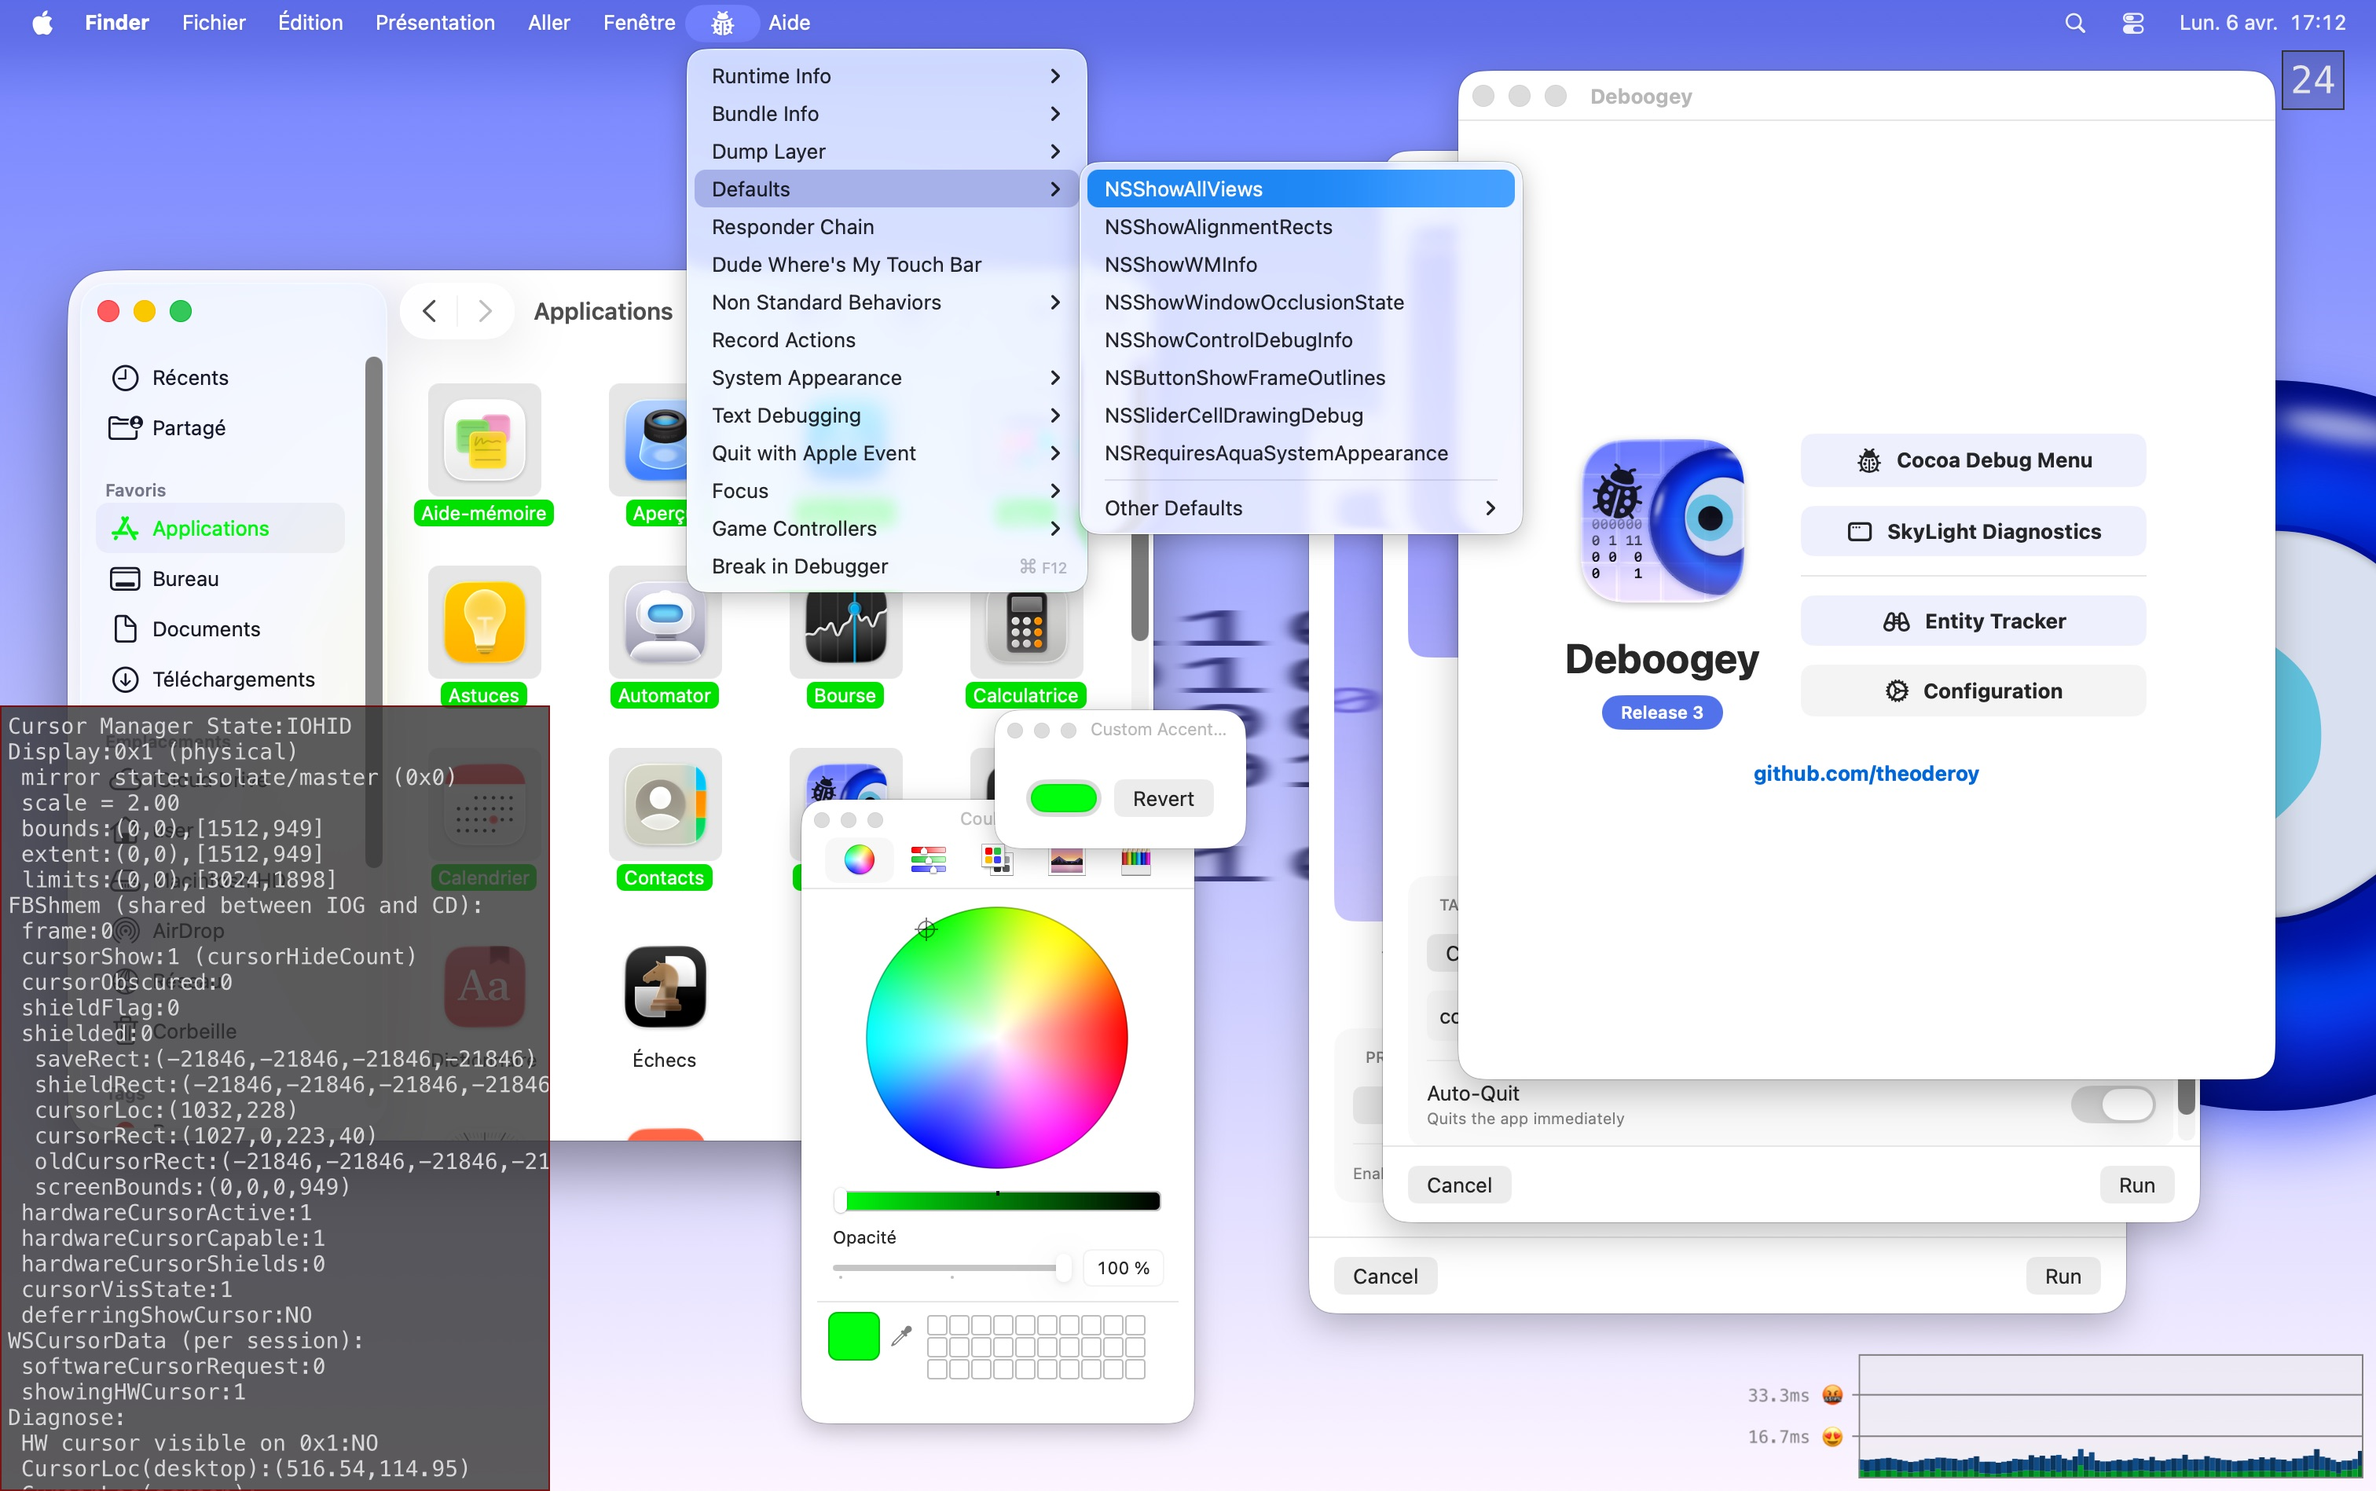
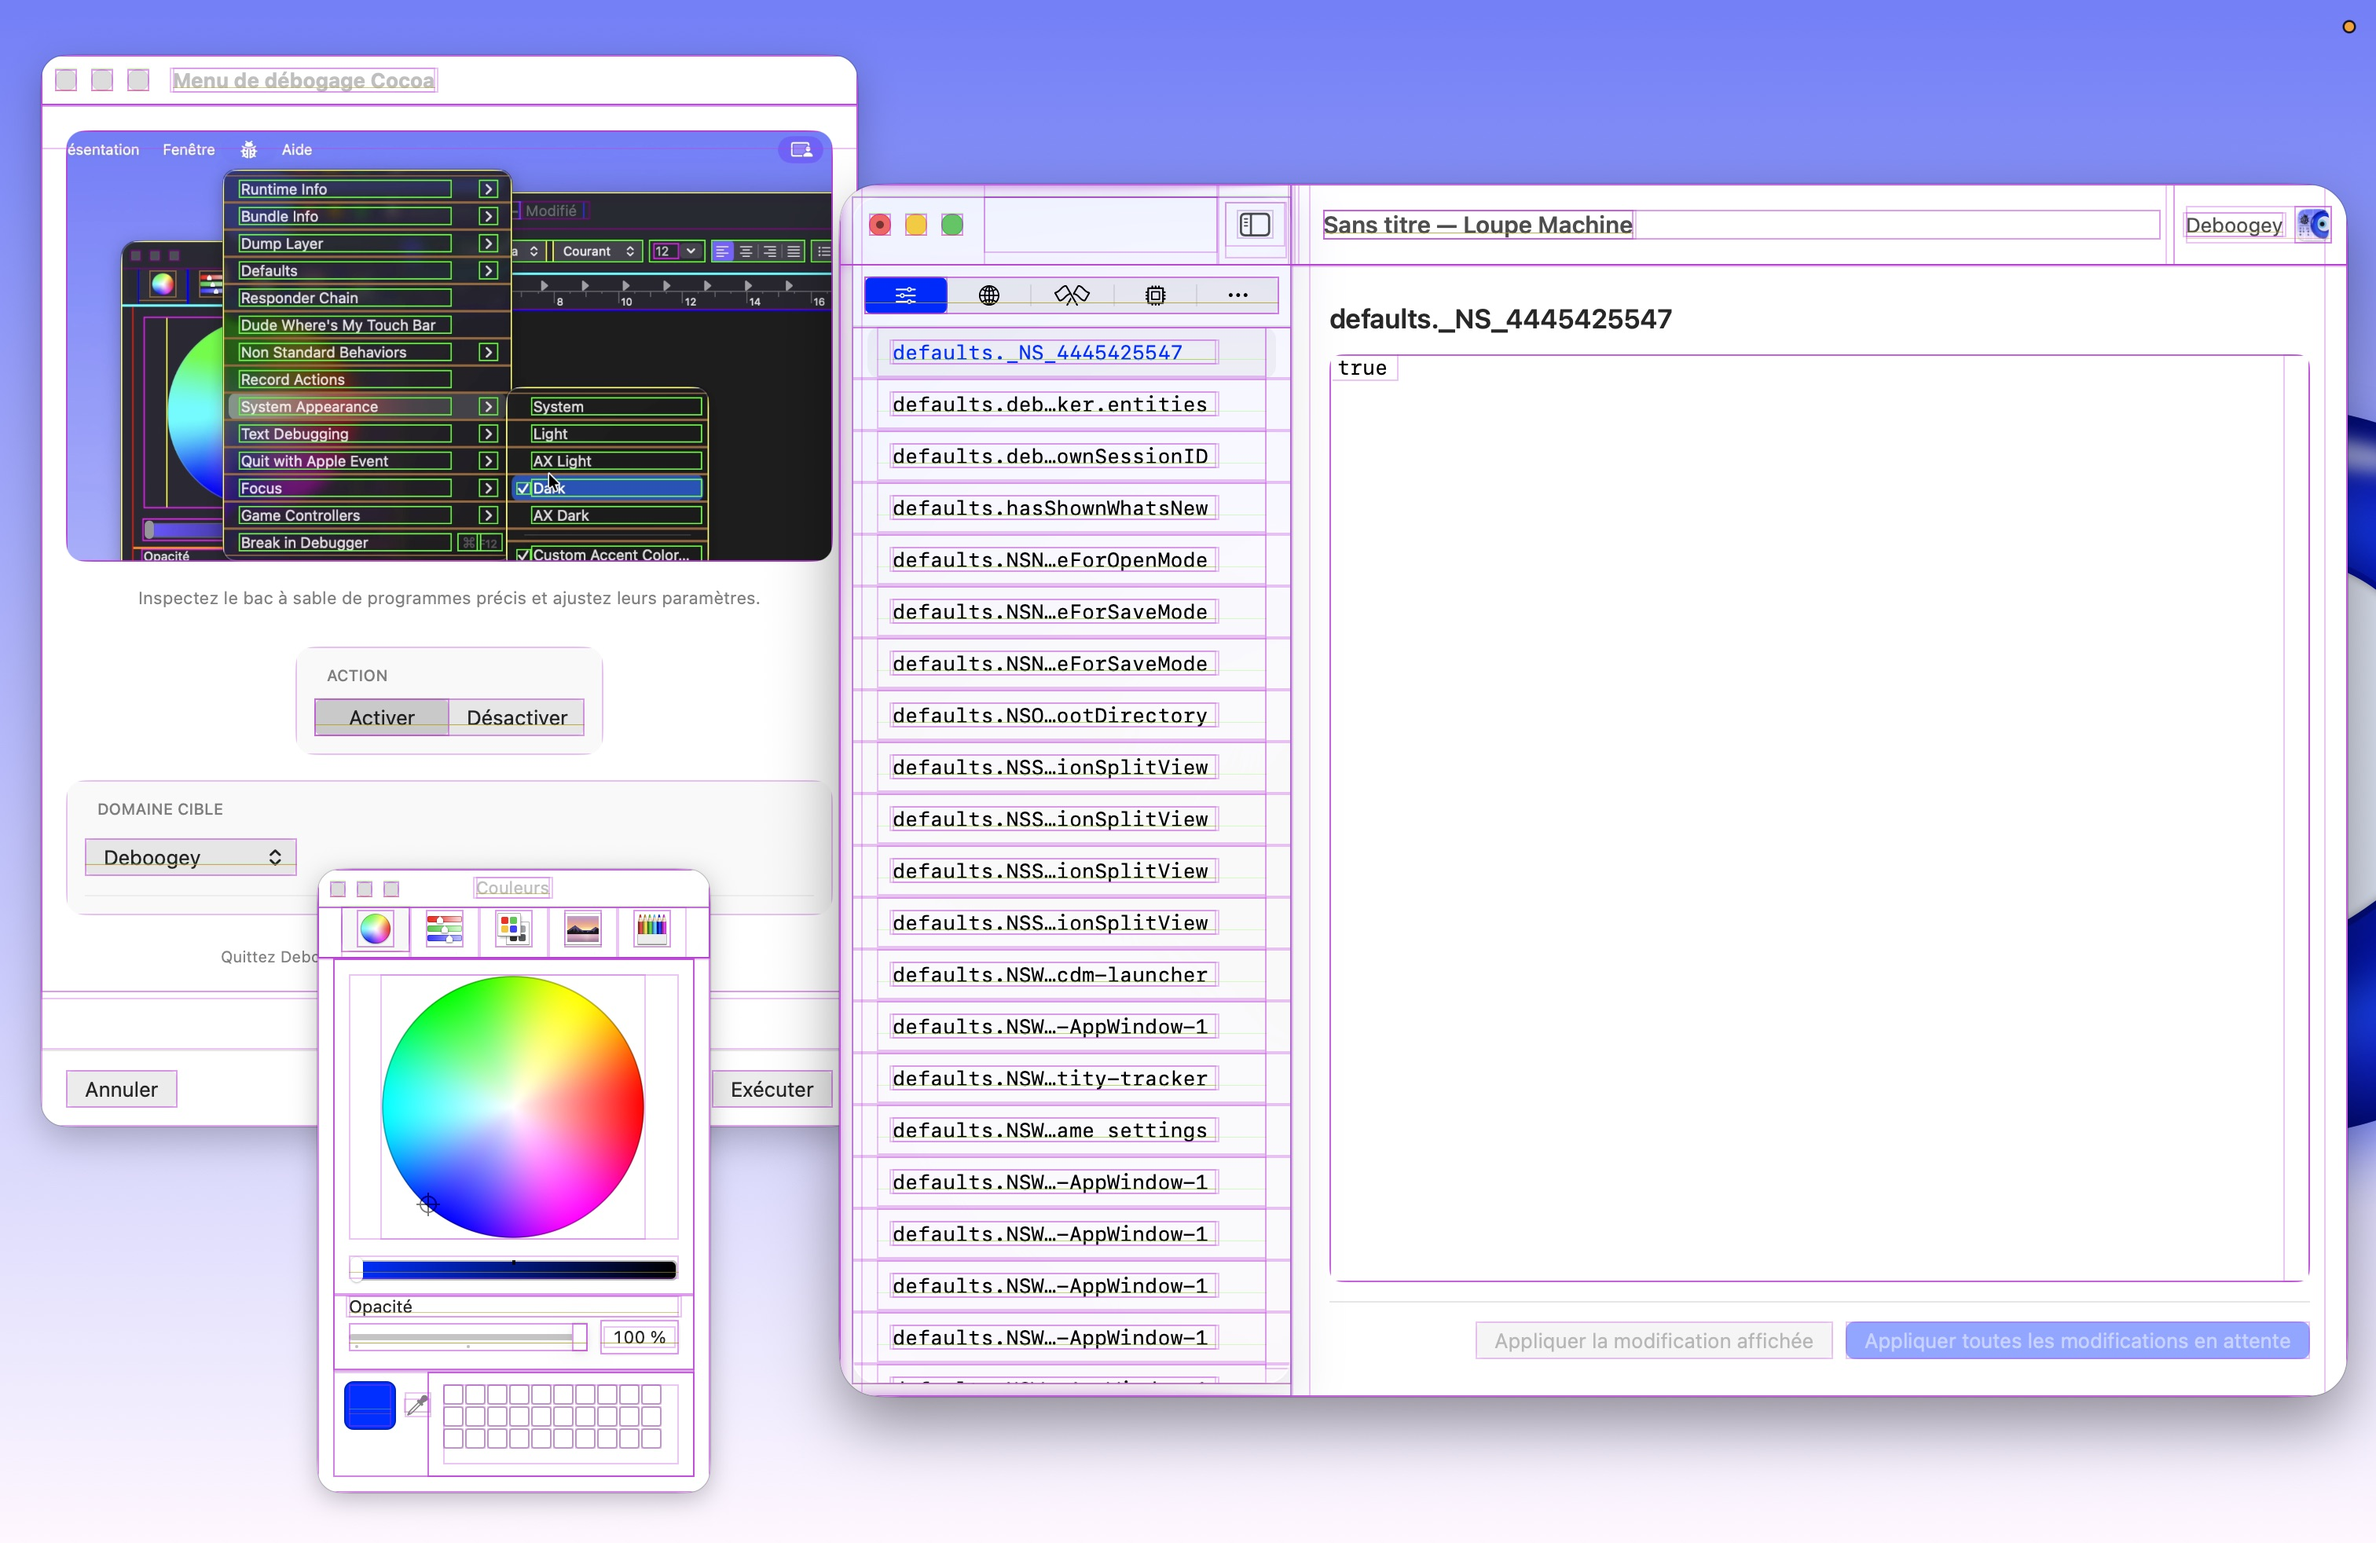
Update marketing for Release 5/MCE 2026.8.1

diff --git a/README.MD b/README.MD
@@ -1,14 +1,16 @@
 <div align="center">
 
-![Deboogey](Assets/banner.jpeg)
+<img src="Assets/icon.png" alt="Deboogey icon" width="128">
 
 # Deboogey
 
-**A hardened debugging inspector for macOS.**
+**Dig into what should be yours.**
 
 [![License: MIT](https://img.shields.io/badge/License-MIT-blue.svg)](LICENSE)
 
 </div>
+
+![Deboogey](Assets/banner.jpeg)
 
 ## Overview
 
